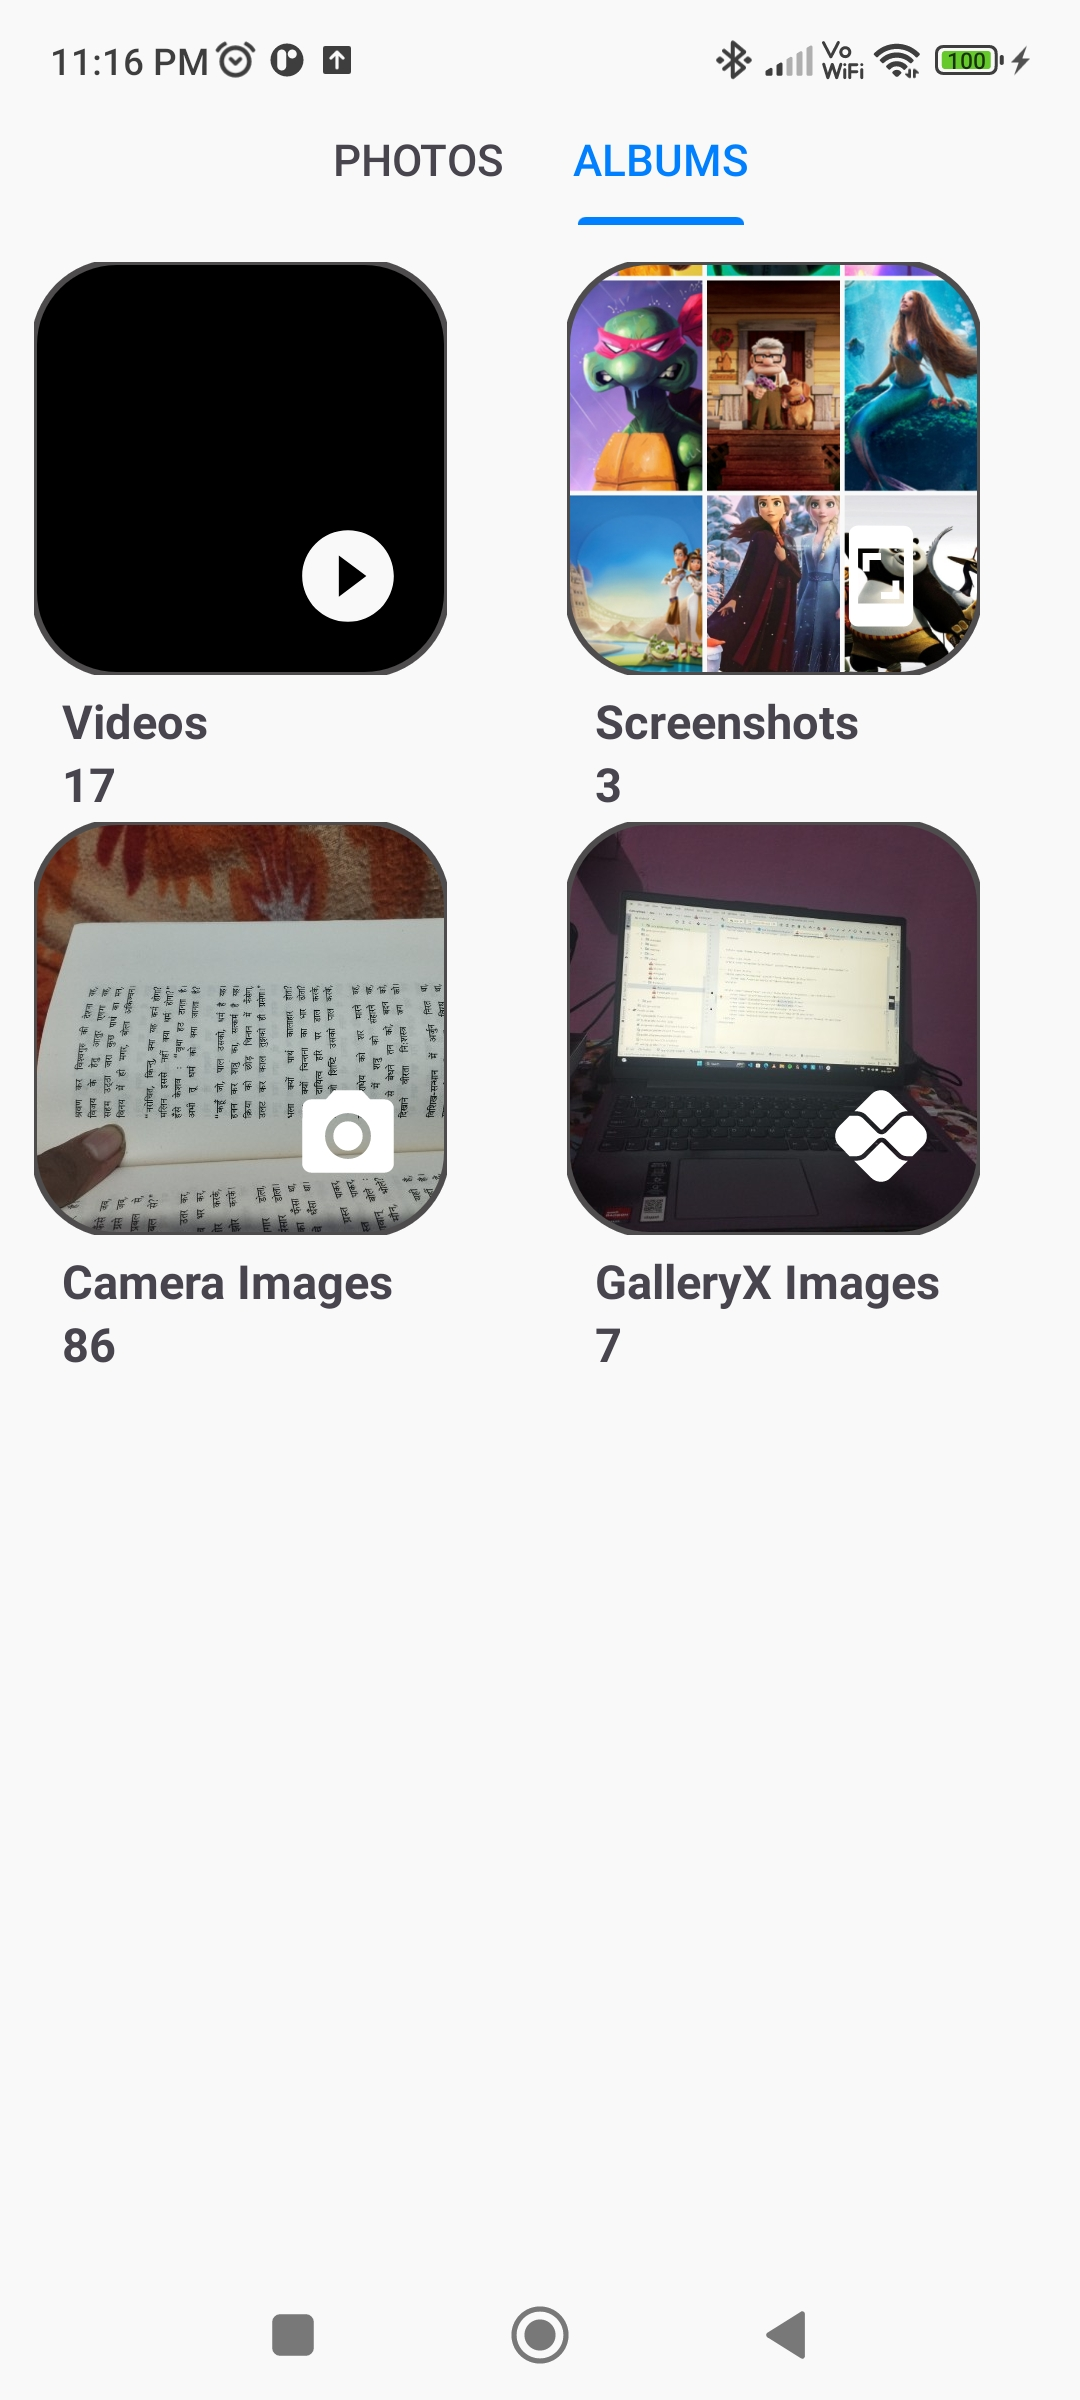
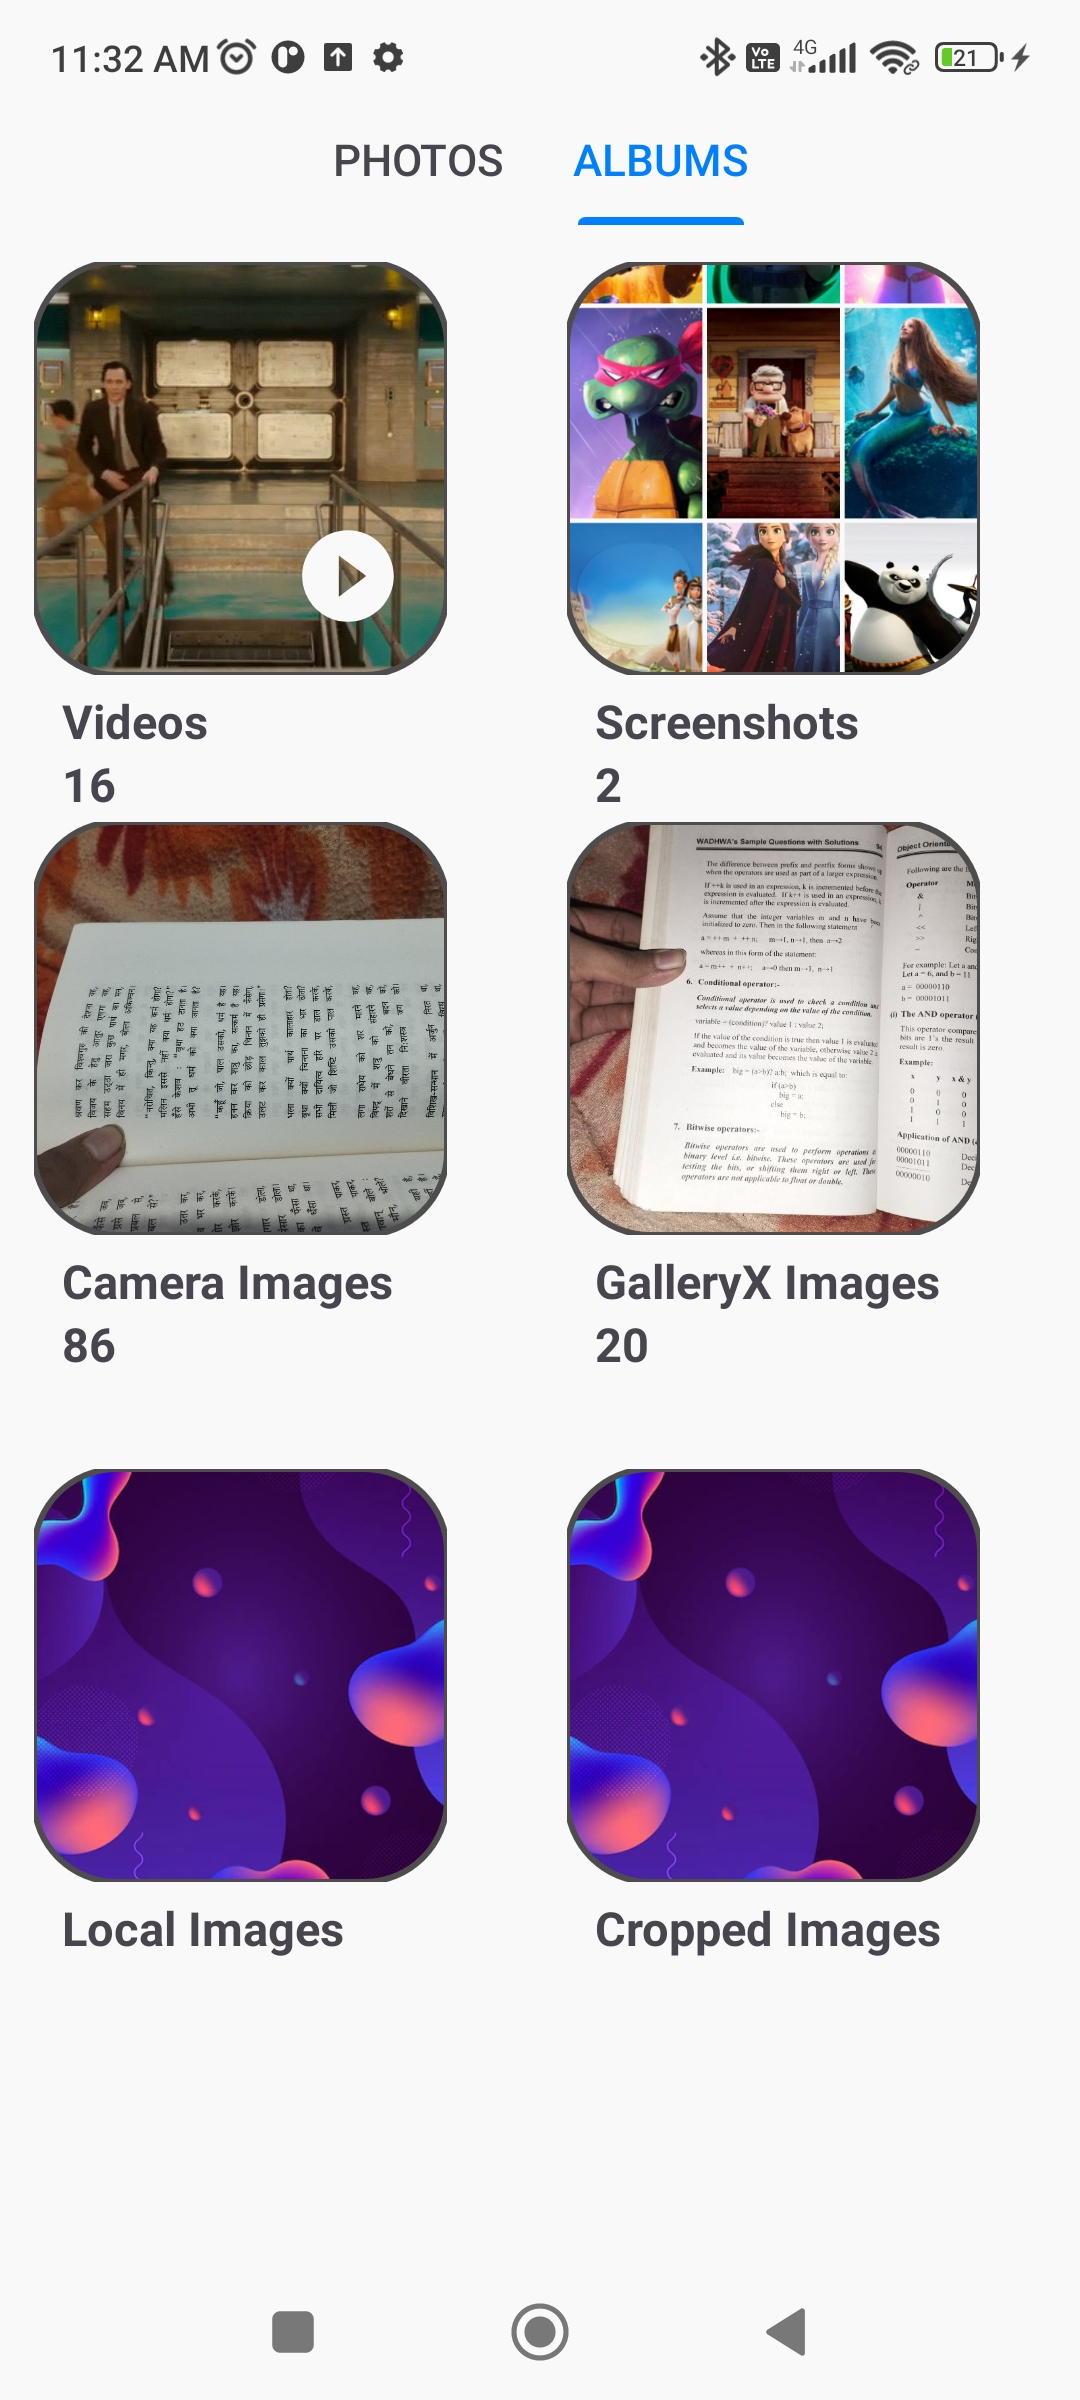
changes in album fragment layout

diff --git a/app/src/main/java/com/dixitkumar/galleryxapp/AlbumFragment/Album_Fragment.java b/app/src/main/java/com/dixitkumar/galleryxapp/AlbumFragment/Album_Fragment.java
@@ -68,7 +68,12 @@ public class Album_Fragment extends Fragment {
                     startActivity(intent);
                 });
             }else{
-                albumBinding.screenShotLayout.setVisibility(View.GONE);
+                albumBinding.allScreenShots.setImageResource(R.drawable.image1);
+                albumBinding.AllScreenShotsNumber.setVisibility(View.GONE);
+
+                albumBinding.screenShotLayout.setOnClickListener(view -> {
+                    Toast.makeText(getContext(), "No Images Here", Toast.LENGTH_SHORT).show();
+                });
             }
 
             if(cameraPhotos.size()!=0){
@@ -85,7 +90,10 @@ public class Album_Fragment extends Fragment {
                 });
 
             }else {
-            albumBinding.cameraImageLayout.setVisibility(View.GONE);
+                albumBinding.allCameraImages.setImageResource(R.drawable.image1);
+            albumBinding.AllCameraImagesNumber.setVisibility(View.GONE);
+
+            albumBinding.cameraImageLayout.setOnClickListener(view -> Toast.makeText(getContext(), "No Images Here", Toast.LENGTH_SHORT).show());
             }
 
             if(galleryXApp.size()!=0){
@@ -103,7 +111,10 @@ public class Album_Fragment extends Fragment {
                 });
 
             }else{
-               albumBinding.galleryXImageLayout.setVisibility(View.GONE);
+                albumBinding.allGalleryXImages.setImageResource(R.drawable.image1);
+               albumBinding.allGalleryXImageNumber.setVisibility(View.GONE);
+
+               albumBinding.galleryXImageLayout.setOnClickListener(view -> Toast.makeText(getContext(), "No Images Here", Toast.LENGTH_SHORT).show());
             }
             if(localStorage.size()!=0){
                 albumBinding.allLocalStorageImages.setScaleType(ImageView.ScaleType.CENTER_CROP);
@@ -119,7 +130,12 @@ public class Album_Fragment extends Fragment {
                 });
 
             }else{
-                albumBinding.localImageLayout.setVisibility(View.GONE);
+                albumBinding.allLocalStorageImages.setImageResource(R.drawable.image1);
+                albumBinding.localStorageNumber.setVisibility(View.GONE);
+
+                albumBinding.localImageLayout.setOnClickListener(view -> {
+                    Toast.makeText(getContext(), "No Images Here", Toast.LENGTH_SHORT).show();
+                });
             }
             if(croppedImages.size()!=0){
 
@@ -138,7 +154,11 @@ public class Album_Fragment extends Fragment {
                     }
                 });
             }else{
-                albumBinding.croppedImageLayout.setVisibility(View.GONE);
+                albumBinding.allCroppedImages.setImageResource(R.drawable.image1);
+                albumBinding.allCroppedImagesNumber.setVisibility(View.GONE);
+                albumBinding.croppedImageLayout.setOnClickListener(view -> {
+                    Toast.makeText(getContext(), "No Images Here", Toast.LENGTH_SHORT).show();
+                });
             }
         }
          return albumBinding.getRoot();

diff --git a/README.md b/README.md
@@ -5,6 +5,8 @@
 <b>Simple Gallery App with Build-in Camera,Video Recorder and Video Player.</b><br>
 
 <b>Screenshots Of GalleryXApp :</br>
+<img src = "https://github.com/DixitKashyap/GalleryX/blob/main/Screenshots/5.jpg"
+width=100% height=50%/>
 <img src ="https://github.com/DixitKashyap/GalleryX/blob/main/Screenshots/1.jpg"
 width=45% height=30%/>
 <img src = "https://github.com/DixitKashyap/GalleryX/blob/main/Screenshots/2.jpg"
@@ -12,8 +14,6 @@ width=45% height=30%/>
 <img src = "https://github.com/DixitKashyap/GalleryX/blob/main/Screenshots/3.jpg"
 width=45% height=30%/>
 <img src = "https://github.com/DixitKashyap/GalleryX/blob/main/Screenshots/4.jpg"
-width=45% height=30%/>
-<img src = "https://github.com/DixitKashyap/GalleryX/blob/main/Screenshots/5.jpg"
 width=45% height=30%/>
 <img src = "https://github.com/DixitKashyap/GalleryX/blob/main/Screenshots/6.jpg"
 width=45% height=30%/>
